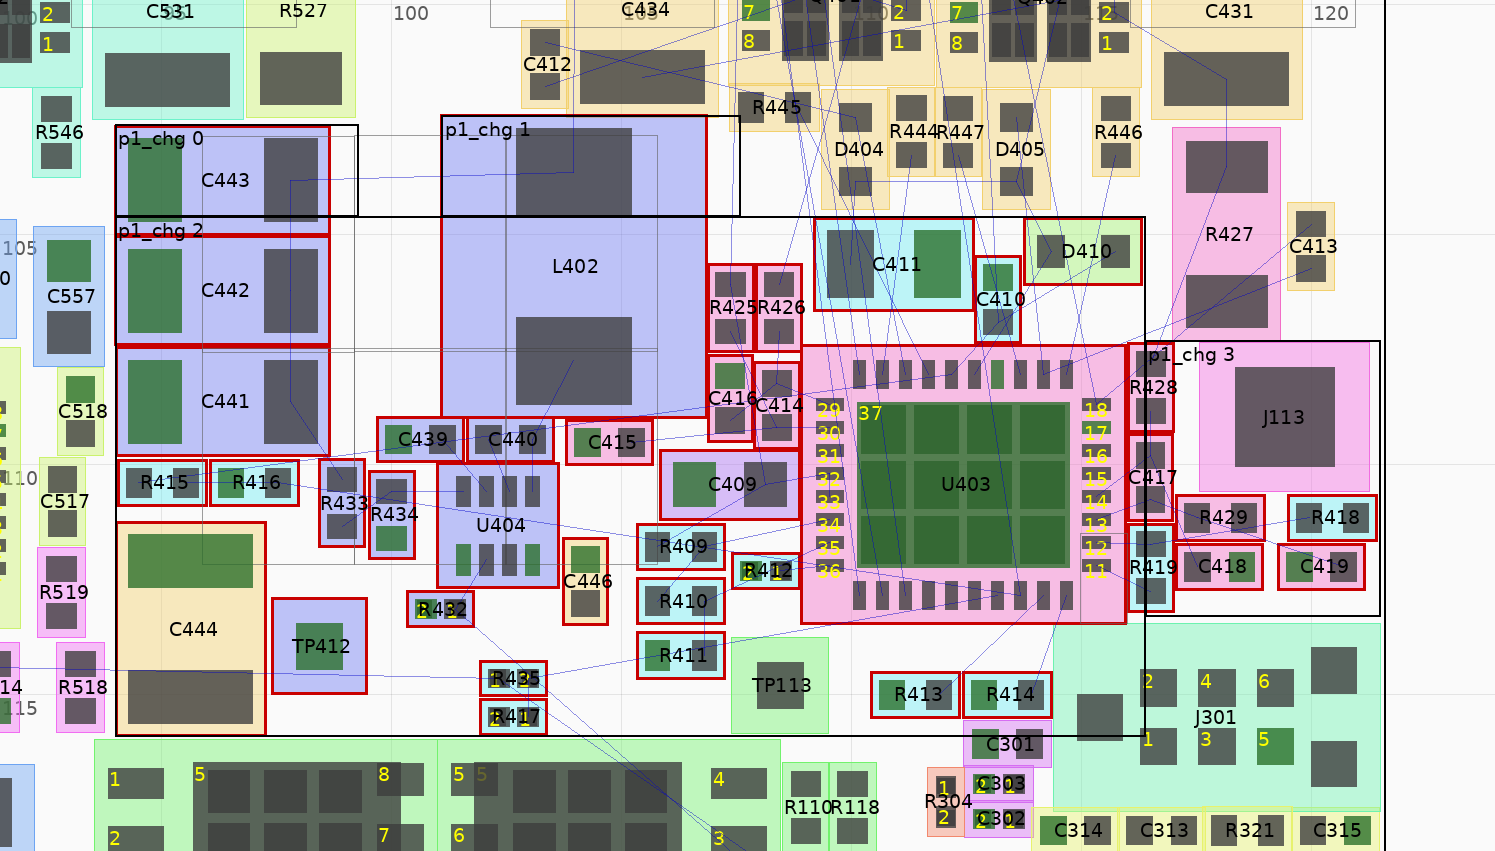
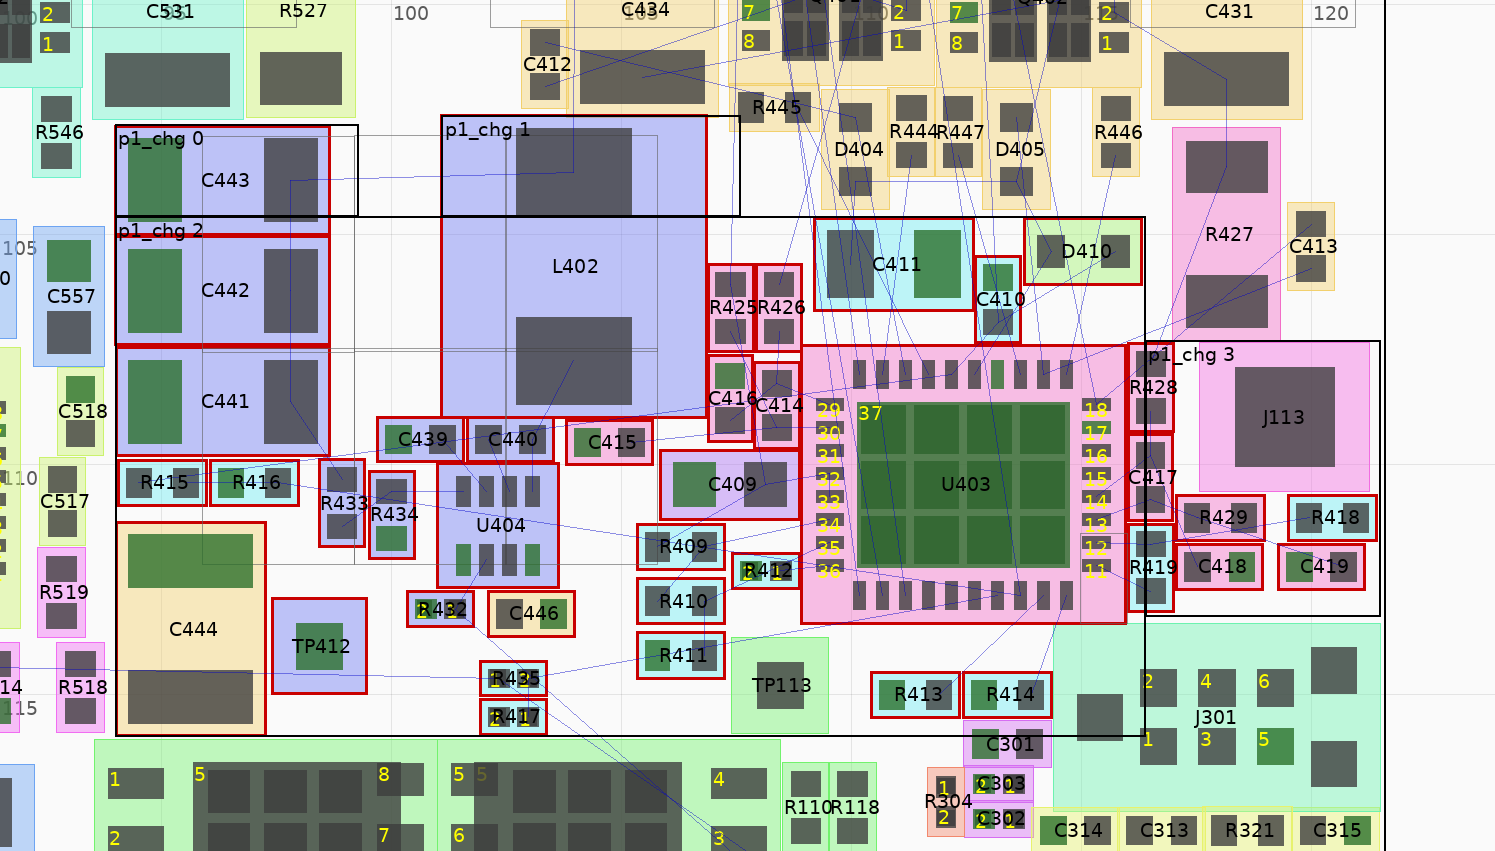
Team D: round 2 local fixes (U404 ground, Port 2 escapes)
Claude-Session: https://claude.ai/code/session_01LzE9v24TmVQ4GCxtaTstCR

Changed region(s): [[0.3077, 0.611, 0.4308, 0.7638]]

diff --git a/docs/layout-teams/D/rooms/p2_top.py b/docs/layout-teams/D/rooms/p2_top.py
@@ -23,22 +23,31 @@ rm.put_court('C503', rot=270, right=82.05, top=79.9)            # 3V3 pad E -> p
 rm.put_court('C504', rot=90, right=82.05, top=81.5)             # LDO_3V3 pad E -> pin 1
 rm.put_court('C544', rot=0, left=78.55, bottom=87.7)            # PACK_P bulk (HL_5V second cap)
 rm.put_court('C505', rot=0, left=82.1, top=85.15)               # LDO_1V5, SW corner of U501
-rm.put_court('C507', rot=90, left=85.3, top=75.25)              # PP5V pad S, east of the PP5V drop
+rm.put_court('C507', rot=90, left=84.2, top=75.25)              # PP5V pad S, east of the PP5V drop (r2: 1.1 W, frees pins 28-31)
 rm.put_court('R555', rot=0, right=83.95, bottom=79.75)
 rm.beside('C550', 'U501.23', 'E', rot=90)
 rm.beside('C549', 'U501.20', 'E', rot=270)
-rm.put('R524', 89.1, 86.55, 180)
+# r2: R524 stands upright right under U501 pad 20 (PPHV pad N, AC_SNS_N pad S at the room edge): the PPHV copper stays a
+#     short stub west of x 90.5 (further east, the copper planner finds a 0.3 mm PPHV path round the stage to C509 that
+#     walls in the charger's north side), and the strip under pins 15-19 is left to the pull-ups
+rm.put_court('R524', rot=90, left=89.0, bottom=87.7)
 rm.put_court('U502', rot=180, left=91.1, top=82.3)
 rm.beside('C508', 'U502.8', 'N')
-rm.put_court('R502', rot=0, left=91.7, top=85.2)
-rm.row(['R503', 'R504', 'R541'], 'R502', 'E')
+# r2: the SDA / SCL pull-ups lie flat under pins 13-18 (SCL pad 2 under pin 17, SDA pad 2 under pin 15): their pad rings
+#     keep the AC_SNS_N / PPHV pour out of the strip under pins 15-19, so pins 16-18 get via spots
+rm.put('R503', 87.52, 85.7, 270)                                # pad 2 SCL W (x 87.2), pad 1 LDO_3V3 E
+rm.put_court('R502', rot=90, right=rm.court('R503')[0] - 0.1, top=rm.court('R503')[1])   # pad 1 LDO_3V3 W, pad 2 SDA E
+rm.put_court('R504', rot=0, left=91.7, top=85.2)
+# r2: SBU_FLT pull-up lies flat under J501 B7/A5: its pad rings keep the VBUS pour out from under A5 (via spot for C_CC1)
+rm.put_court('R541', rot=90, left=93.76, top=70.5)
 
 # ---------------- connector side
 rm.put('D501', 98.35, 71.42, 0)
 rm.put_court('C506', rot=90, left=89.85, top=75.35)       # VBUS pad N, keeps the branch east (pad 32 anchor)
-rm.put('U505', 95.45, 77.32, 0)
+rm.put('U505', 96.35, 77.32, 0)                              # r2: 0.9 E, via room west of pins 6-10
 rm.beside('C551', 'U505.3', 'N', rot=270, shift=0.65)
 rm.beside('C552', 'U505.10', 'W', rot=90, shift=0.5)
-rm.beside('C502', 'U505.11', 'S', rot=180, shift=-0.8)
-rm.beside('C501', 'U505.12', 'S', rot=180, shift=-0.1)
+# r2: CC caps over U501 pins 29 / 28, CC pads down (0.99 mm above the pins: via spots between)
+rm.put_court('C502', rot=0, left=85.9, bottom=79.3)
+rm.put_court('C501', rot=0, left=86.95, bottom=79.3)
 rm.done()

diff --git a/docs/layout-teams/D/rooms/p1_chg.py b/docs/layout-teams/D/rooms/p1_chg.py
@@ -23,7 +23,10 @@ rm.beside('C439', 'C440', 'W', gap=0.05, rot=0)
 rm.beside('U404', 'C440.2', 'S', gap=0.0, rot=0, pad=5)
 # first input cap (hot loop): GND pad level with pin 4, PACK_P pad below; pin 3 reaches it under pin 4.
 # Free copper under pins 3/4 and C446 for the PACK_P vias (In2 pack rail).
-rm.beside('C446', 'U404.4', 'E', gap=0.05, rot=0)
+# round 2: C446 turned flat right under pins 3/4 (PACK_P pad under pin 3, GND pad under pin 4 / east of it), so its GND
+# pad sits south of the bottom capacitors' PACK_P pads (B side, y < 111.9) where a return via fits on both outer layers;
+# round 1 had it beside pin 4 over C209's PACK_P pad: no via fitted and U404's GND was left open.
+rm.beside('C446', 'U404.3', 'S', gap=0.05, rot=90)
 # EN pull-down, flat under pins 1/2 and shifted west: GND pad (W) takes pin 1, EN pad (E) takes pin 2;
 # keeps the strip under pin 3 free so the PACK_P copper can reach pin 3 and C446 (hot loop)
 p1 = rm.pad('U404.1')
@@ -47,11 +50,11 @@ rm.beside('C409', 'U403.32', 'W', gap=0.0, rot=0, shift=0.25)
 rm.beside('R412', 'U403.36', 'W', gap=0.0, rot=0, shift=0.12)
 
 # ================= programming dividers under C409 (ACUV/ACOV), CE_N pair below them
-X2 = rm.court('C446')[2] + 0.6
+X2 = 105.33                     # round-1 column position (was C446's east edge + 0.6)
 rm.put_court('R409', 180, left=X2, top=rm.court('C409')[3] + 0.06)        # PPHV (W) -> ACUV (E)
 rm.put_court('R410', 0, left=X2, top=rm.court('R409')[3] + 0.15)          # ACUV (W) ... ACOV (E)
 rm.put_court('R411', 0, left=X2, top=rm.court('R410')[3] + 0.15)          # GND (W) ... ACOV (E)
-rm.put_court('R435', 0, left=rm.court('R432')[2] + 0.1, top=rm.court('C446')[3] + 0.75)   # CHG_INH -> CE_N
+rm.put_court('R435', 0, left=rm.court('R432')[2] + 0.1, top=114.25)   # CHG_INH -> CE_N
 rm.put_court('R417', 0, left=rm.court('R432')[2] + 0.1, top=rm.court('R435')[3] + 0.05)   # 3V3 pull-up on CE_N
 
 # ================= north strip: REGN / DRV_SUP

diff --git a/docs/layout-teams/D/rooms/p2_chg.py b/docs/layout-teams/D/rooms/p2_chg.py
@@ -8,7 +8,7 @@ rm.put('U503', CX, CY, 0)
 W = rm.court('U503')                      # chip courtyard
 
 # ---- north strip: only C510 (REGN), straight above its pin; the gate/boot nets fan out on both sides of it
-rm.beside('C510', 'U503.24', 'N', gap=0.25)
+rm.beside('C510', 'U503.24', 'N', gap=0.95)        # r2: up 0.7, via room at pin 23
 
 # ---- west, top: input-shunt sense filter; taps R525.1 / R526.1 face north (vias above / beside them)
 xa = 80.72                                 # ACP column (R525 over C514 pad 1), ACN column 0.96 to the east
